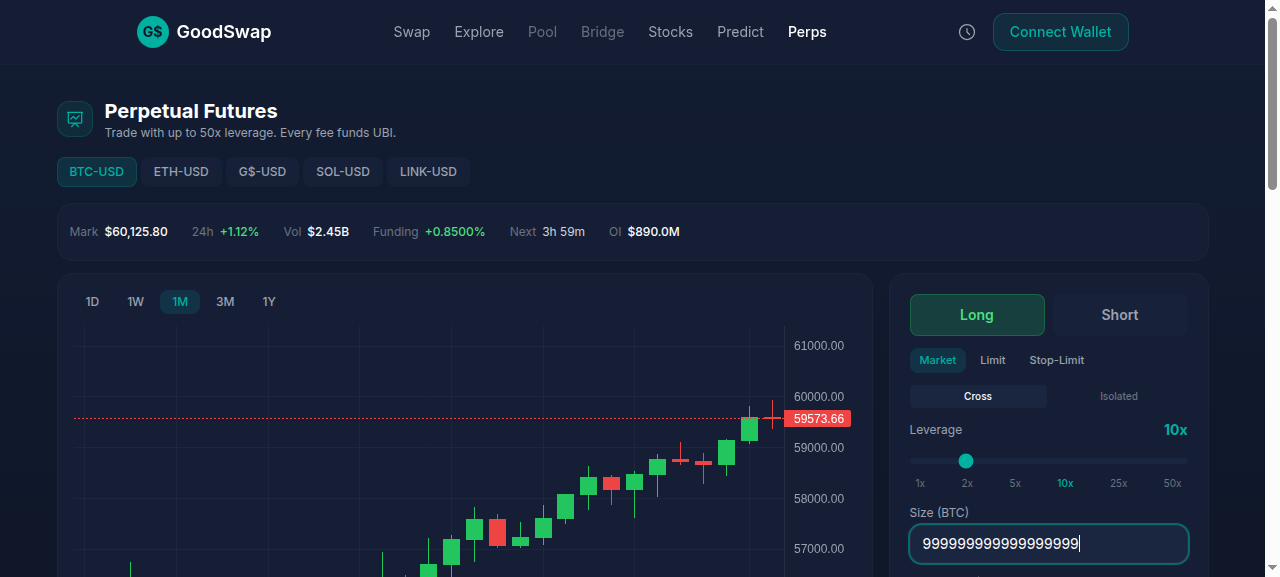
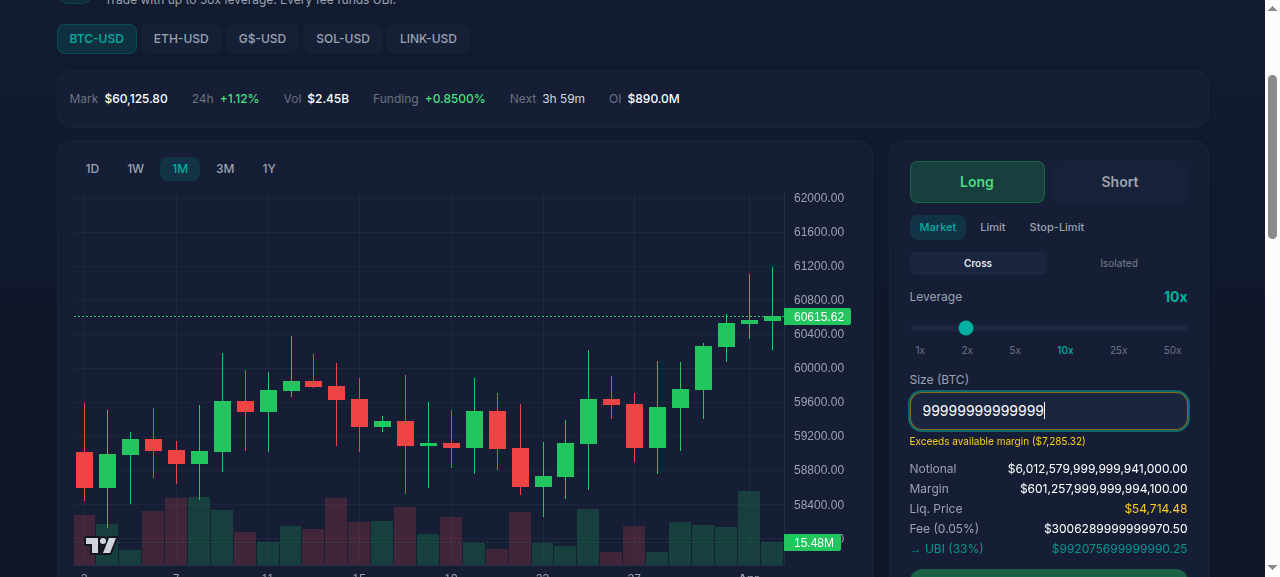
0081: Abbreviate large computed values in trade panels to prevent overflow
Trade panels (Perps, Stock Detail) now use compact formatting (K/M/B/T/Q)
for computed values like Notional, Margin, Fee, UBI, and Est. Shares.
Previously, entering very large position sizes caused unabbreviated numbers
to overflow their containers. Added adaptive decimal precision based on
magnitude and truncate CSS safety nets on value spans.

Made-with: Cursor

diff --git a/frontend/src/lib/__tests__/largeValueFormatting.test.ts b/frontend/src/lib/__tests__/largeValueFormatting.test.ts
@@ -1,0 +1,95 @@
+import { describe, it, expect } from 'vitest'
+import { formatPerpsPrice, formatLargeValue } from '../perpsData'
+import { formatLargeNumber } from '../stockData'
+
+describe('formatPerpsPrice — large value abbreviation', () => {
+  it('abbreviates quadrillions', () => {
+    expect(formatPerpsPrice(6e15)).toBe('$6.00Q')
+    expect(formatPerpsPrice(1.5e16)).toBe('$15.0Q')
+  })
+
+  it('abbreviates trillions', () => {
+    expect(formatPerpsPrice(6.01e12)).toBe('$6.01T')
+    expect(formatPerpsPrice(1.5e12)).toBe('$1.50T')
+  })
+
+  it('abbreviates billions', () => {
+    expect(formatPerpsPrice(601e9)).toBe('$601B')
+    expect(formatPerpsPrice(2.45e9)).toBe('$2.45B')
+  })
+
+  it('abbreviates millions', () => {
+    expect(formatPerpsPrice(890e6)).toBe('$890M')
+    expect(formatPerpsPrice(1.5e6)).toBe('$1.50M')
+  })
+
+  it('uses commas for thousands', () => {
+    expect(formatPerpsPrice(60125.80)).toBe('$60,125.80')
+    expect(formatPerpsPrice(1234.56)).toBe('$1,234.56')
+  })
+
+  it('handles small values', () => {
+    expect(formatPerpsPrice(0.5)).toBe('$0.5000')
+    expect(formatPerpsPrice(0.005)).toBe('$0.005000')
+  })
+
+  it('handles negative large values', () => {
+    expect(formatPerpsPrice(-1.5e12)).toBe('-$1.50T')
+    expect(formatPerpsPrice(-2e9)).toBe('-$2.00B')
+  })
+
+  it('uses adaptive decimals based on magnitude', () => {
+    expect(formatPerpsPrice(150e12)).toBe('$150T')
+    expect(formatPerpsPrice(15e12)).toBe('$15.0T')
+    expect(formatPerpsPrice(1.5e12)).toBe('$1.50T')
+  })
+})
+
+describe('formatLargeValue — order form values', () => {
+  it('abbreviates quadrillions', () => {
+    expect(formatLargeValue(3e15)).toBe('$3.00Q')
+  })
+
+  it('abbreviates trillions', () => {
+    expect(formatLargeValue(3e12)).toBe('$3.00T')
+  })
+
+  it('abbreviates billions', () => {
+    expect(formatLargeValue(6.01e9)).toBe('$6.01B')
+  })
+
+  it('abbreviates millions', () => {
+    expect(formatLargeValue(300e6)).toBe('$300M')
+  })
+
+  it('abbreviates thousands', () => {
+    expect(formatLargeValue(7285)).toBe('$7K')
+  })
+
+  it('formats small values with 2 decimals', () => {
+    expect(formatLargeValue(42.5)).toBe('$42.50')
+    expect(formatLargeValue(0.99)).toBe('$0.99')
+  })
+
+  it('handles negative values', () => {
+    expect(formatLargeValue(-5e9)).toBe('-$5.00B')
+  })
+})
+
+describe('formatLargeNumber — stock values', () => {
+  it('abbreviates trillions', () => {
+    expect(formatLargeNumber(3.09e12)).toBe('$3.09T')
+  })
+
+  it('abbreviates billions', () => {
+    expect(formatLargeNumber(790e9)).toBe('$790.0B')
+  })
+
+  it('abbreviates millions', () => {
+    expect(formatLargeNumber(22.1e6)).toBe('$22.1M')
+  })
+
+  it('abbreviates thousands', () => {
+    expect(formatLargeNumber(500)).toBe('$500')
+  })
+})

diff --git a/frontend/src/app/perps/page.tsx b/frontend/src/app/perps/page.tsx
@@ -202,11 +202,11 @@ function OrderForm({ pair, account }: { pair: PerpPair; account: AccountSummaryD
 
       {sizeNum > 0 && (
         <div className="space-y-1 text-xs">
-          <div className="flex justify-between text-gray-400"><span>Notional</span><span className="text-white">{formatPerpsPrice(notional)}</span></div>
-          <div className="flex justify-between text-gray-400"><span>Margin</span><span className="text-white">{formatPerpsPrice(marginRequired)}</span></div>
-          <div className="flex justify-between text-gray-400"><span>Liq. Price</span><span className="text-yellow-400">{formatPerpsPrice(liqPrice)}</span></div>
-          <div className="flex justify-between text-gray-400"><span>Fee ({orderType === 'market' ? '0.05%' : '0.02%'})</span><span className="text-white">${fee.toFixed(2)}</span></div>
-          <div className="flex justify-between text-goodgreen/80"><span>→ UBI (33%)</span><span>${ubiFee.toFixed(2)}</span></div>
+          <div className="flex justify-between text-gray-400"><span>Notional</span><span className="text-white truncate ml-2">{formatPerpsPrice(notional)}</span></div>
+          <div className="flex justify-between text-gray-400"><span>Margin</span><span className="text-white truncate ml-2">{formatPerpsPrice(marginRequired)}</span></div>
+          <div className="flex justify-between text-gray-400"><span>Liq. Price</span><span className="text-yellow-400 truncate ml-2">{formatPerpsPrice(liqPrice)}</span></div>
+          <div className="flex justify-between text-gray-400"><span>Fee ({orderType === 'market' ? '0.05%' : '0.02%'})</span><span className="text-white truncate ml-2">{formatLargeValue(fee)}</span></div>
+          <div className="flex justify-between text-goodgreen/80"><span>→ UBI (33%)</span><span className="truncate ml-2">{formatLargeValue(ubiFee)}</span></div>
         </div>
       )}
 

diff --git a/frontend/src/lib/perpsData.ts b/frontend/src/lib/perpsData.ts
@@ -161,8 +161,23 @@ export function getLeaderboard(): LeaderboardEntry[] {
   return MOCK_LEADERBOARD
 }
 
+const PRICE_TIERS: [number, string][] = [
+  [1e15, 'Q'],
+  [1e12, 'T'],
+  [1e9, 'B'],
+  [1e6, 'M'],
+]
+
 export function formatPerpsPrice(price: number): string {
   const abs = Math.abs(price)
+  const sign = price < 0 ? '-' : ''
+  for (const [threshold, suffix] of PRICE_TIERS) {
+    if (abs >= threshold) {
+      const abbr = abs / threshold
+      const decimals = abbr >= 100 ? 0 : abbr >= 10 ? 1 : 2
+      return `${sign}$${abbr.toFixed(decimals)}${suffix}`
+    }
+  }
   if (abs >= 1000) return `$${price.toLocaleString('en-US', { minimumFractionDigits: 2, maximumFractionDigits: 2 })}`
   if (abs >= 1) return `$${price.toFixed(2)}`
   if (abs >= 0.01) return `$${price.toFixed(4)}`
@@ -170,10 +185,17 @@ export function formatPerpsPrice(price: number): string {
 }
 
 export function formatLargeValue(n: number): string {
-  if (n >= 1e9) return `$${(n / 1e9).toFixed(2)}B`
-  if (n >= 1e6) return `$${(n / 1e6).toFixed(1)}M`
-  if (n >= 1e3) return `$${(n / 1e3).toFixed(0)}K`
-  return `$${n.toFixed(0)}`
+  const abs = Math.abs(n)
+  const sign = n < 0 ? '-' : ''
+  for (const [threshold, suffix] of PRICE_TIERS) {
+    if (abs >= threshold) {
+      const abbr = abs / threshold
+      const decimals = abbr >= 100 ? 0 : abbr >= 10 ? 1 : 2
+      return `${sign}$${abbr.toFixed(decimals)}${suffix}`
+    }
+  }
+  if (abs >= 1e3) return `${sign}$${(abs / 1e3).toFixed(0)}K`
+  return `$${n.toFixed(2)}`
 }
 
 export function formatFundingRate(rate: number): string {

diff --git a/frontend/src/app/stocks/[ticker]/page.tsx b/frontend/src/app/stocks/[ticker]/page.tsx
@@ -80,19 +80,19 @@ function OrderForm({ stock }: { stock: { ticker: string; price: number } }) {
         <div className="mb-4 space-y-1.5 text-xs">
           <div className="flex justify-between text-gray-400">
             <span>Est. Shares</span>
-            <span className="text-white">{shares.toFixed(4)} {stock.ticker}</span>
+            <span className="text-white truncate ml-2">{shares >= 1e6 ? `${(shares / 1e6).toFixed(2)}M` : shares >= 1e3 ? `${(shares / 1e3).toFixed(1)}K` : shares.toFixed(4)} {stock.ticker}</span>
           </div>
           <div className="flex justify-between text-gray-400">
             <span>Price</span>
-            <span className="text-white">{formatStockPrice(effectivePrice)}</span>
+            <span className="text-white truncate ml-2">{formatStockPrice(effectivePrice)}</span>
           </div>
           <div className="flex justify-between text-gray-400">
             <span>Fee (0.1%)</span>
-            <span className="text-white">${fee.toFixed(2)}</span>
+            <span className="text-white truncate ml-2">{formatLargeNumber(fee)}</span>
           </div>
           <div className="flex justify-between text-goodgreen/80">
             <span>→ UBI Pool (33%)</span>
-            <span>${ubiFee.toFixed(2)}</span>
+            <span className="truncate ml-2">{formatLargeNumber(ubiFee)}</span>
           </div>
         </div>
       )}

diff --git a/.autobuilder/initiatives/0081-trade-panel-value-overflow.md b/.autobuilder/initiatives/0081-trade-panel-value-overflow.md
@@ -1,0 +1,103 @@
+---
+id: gooddollar-l2-trade-panel-value-overflow
+title: "Trade Panels — Abbreviate Large Computed Values to Prevent Overflow"
+parent: gooddollar-l2
+deps: []
+split: false
+depth: 1
+planned: true
+executed: false
+---
+
+## Problem Statement
+
+When users enter very large position sizes in the Perps trade panel or the Stock Detail trade panel, computed values (Notional, Margin, Fee, UBI Pool, Est. Shares) render as extremely long unabbreviated strings that overflow their containers. For example, entering "99999999999999" in the perps Size field produces:
+- Notional: `$6,012,579,999,999,941,000.00` (overflows the sidebar)
+- Margin: `$601,257,999,999,994,100.00`
+- Fee: `$300628999999970.50` (raw `.toFixed(2)`, no commas or abbreviation)
+- UBI (33%): `$99207569999990.25`
+
+Similarly on Stock Detail (`/stocks/MSFT`), entering a huge dollar amount shows:
+- Est. Shares: `24061597690.0842 MSFT` (overflows)
+- Fee: `$10000000000.00`
+- UBI Pool: `$3300000000.00`
+
+The app already has a `formatLargeValue` function in `perpsData.ts` and `compactAmount` in `format.ts` that handle abbreviation (K/M/B/T), but neither is used for these computed fields.
+
+## User Story
+
+As a trader entering a position size, I want computed values (Notional, Margin, Fee, Shares) to display in a compact, readable format so the trade panel doesn't break visually.
+
+## How It Was Found
+
+During edge-case testing: entered "99999999999999" in the Perps Size field and "9999999999999" in the Stock Detail Amount field. Both caused computed values to overflow their containers. Screenshots captured showing the overflow.
+
+## Proposed UX
+
+- All computed monetary values in trade panels should use abbreviated formatting: `$1.23B`, `$45.6M`, `$789K`.
+- Use the existing `formatLargeValue` from `perpsData.ts` for the perps Fee and UBI fee lines (currently using `fee.toFixed(2)`).
+- Use `formatLargeValue` (or a similar utility) for the stock detail Est. Shares, Fee, and UBI Pool values.
+- Add `overflow-hidden text-ellipsis` or `truncate` as a safety net on value containers.
+- The swap card already uses `compactAmount` on mobile; ensure desktop also truncates for very long outputs.
+
+## Acceptance Criteria
+
+- [ ] Perps trade panel: Fee and UBI fee lines use `formatLargeValue` instead of raw `.toFixed(2)`.
+- [ ] Perps trade panel: Notional and Margin use abbreviated formatting for values >= 1B.
+- [ ] Stock detail trade panel: Est. Shares uses compact formatting for values >= 1M.
+- [ ] Stock detail trade panel: Fee and UBI Pool use `formatLargeValue` for large values.
+- [ ] No value in any trade panel exceeds its container width visually.
+- [ ] Existing tests still pass.
+- [ ] New tests verify large-value formatting in trade panels.
+
+## Verification
+
+- Run `npx vitest run` — all tests must pass.
+- Enter `99999999999999` in perps Size field — values should show abbreviated (e.g., `$6.01T`, `$601.3B`).
+- Enter `9999999999999` in stock detail Amount field — values should show abbreviated.
+
+## Overview
+
+Fix computed monetary values in Perps and Stock Detail trade panels to use abbreviated formatting (K/M/B/T) when values are very large, preventing visual overflow.
+
+## Research Notes
+
+- `formatPerpsPrice` in `lib/perpsData.ts` (line 164) formats with `toLocaleString` for values >= 1000 — adds commas but doesn't abbreviate, so `$6,012,579,999,999,941,000.00` is output.
+- `formatLargeValue` in `lib/perpsData.ts` (line 172) handles B/M/K abbreviation but not T (trillion). It's not used for Fee/UBI in the order form.
+- Perps Fee (line 208) uses raw `$${fee.toFixed(2)}` — no formatting.
+- Perps UBI (line 209) uses raw `$${ubiFee.toFixed(2)}` — no formatting.
+- Stock Detail Est. Shares (line 83) uses `shares.toFixed(4)`.
+- Stock Detail Fee (line 91) uses `$${fee.toFixed(2)}`.
+- Stock Detail UBI Pool (line 95) uses `$${ubiFee.toFixed(2)}`.
+- `compactAmount` in `lib/format.ts` is a general-purpose abbreviation function that could be reused.
+
+## Architecture
+
+```mermaid
+graph TD
+  A[formatLargeValue in perpsData.ts] -->|Add T threshold| B[Supports T/B/M/K]
+  C[Perps OrderForm] -->|Use formatLargeValue| D[Fee + UBI lines]
+  C -->|formatPerpsPrice already used| E[Notional + Margin]
+  F[Stock Detail OrderForm] -->|Use formatLargeValue| G[Fee + UBI + Shares lines]
+  H[formatPerpsPrice] -->|Add abbreviation for >= 1B| I[Abbreviated output]
+```
+
+## One-Week Decision
+
+**YES** — This is a focused formatting change across two files. The formatting functions already exist and just need to be applied. Estimated effort: 2-3 hours.
+
+## Implementation Plan
+
+1. Extend `formatLargeValue` in `perpsData.ts` to handle trillions (`>= 1e12`).
+2. Upgrade `formatPerpsPrice` to use abbreviated formatting for values >= 1B (to keep the Notional/Margin fields compact).
+3. In `perps/page.tsx` OrderForm, replace `$${fee.toFixed(2)}` and `$${ubiFee.toFixed(2)}` with `formatLargeValue(fee)` and `formatLargeValue(ubiFee)`.
+4. Create/export a `formatCompactShares` utility for large share counts.
+5. In `stocks/[ticker]/page.tsx` OrderForm, replace `shares.toFixed(4)`, `$${fee.toFixed(2)}`, and `$${ubiFee.toFixed(2)}` with the appropriate formatting functions.
+6. Add `truncate` CSS class as safety net on value containers.
+7. Write tests for the formatting edge cases.
+
+## Out of Scope
+
+- Adding maximum input length to perps/stock inputs (separate initiative 0082).
+- Changing the swap card behavior.
+- Refactoring the mock data layer.

diff --git a/.autobuilder/initiatives/0082-perps-stocks-input-sanitization.md b/.autobuilder/initiatives/0082-perps-stocks-input-sanitization.md
@@ -1,0 +1,89 @@
+---
+id: gooddollar-l2-perps-stocks-input-sanitization
+title: "Perps & Stocks — Add Input Length Limits and Sanitization to Trade Forms"
+parent: gooddollar-l2
+deps: []
+split: false
+depth: 1
+planned: true
+executed: false
+---
+
+## Problem Statement
+
+The Swap card uses `sanitizeNumericInput` from `lib/format.ts` which limits input to 20 characters and strips non-numeric characters. However, the Perps size input and the Stock Detail amount input use raw `<input type="number">` with no character limit or input sanitization. Users can enter arbitrarily long numbers (e.g., 30+ digits), which causes computed values to overflow and can potentially cause floating-point precision issues.
+
+The Perps page uses a custom `sanitizePositiveInput` for limit/trigger price fields but the Size field only applies the same function — it strips negatives but doesn't cap length. The Stock Detail page has no input sanitization at all.
+
+## User Story
+
+As a trader, I want input fields to prevent me from entering unreasonably large numbers so the trade panel stays readable and I'm not confused by overflow or precision artifacts.
+
+## How It Was Found
+
+During edge-case testing of boundary conditions. Entered "99999999999999" (14 digits) and "9999999999999" (13 digits) into the Perps size and Stock detail amount fields respectively. Both accepted the full number. The Swap card limits to 20 chars — the perps and stock forms should have similar constraints.
+
+## Proposed UX
+
+- Apply `sanitizeNumericInput` (or equivalent) to the Perps Size input to limit length to 15 characters (covering reasonable position sizes).
+- Apply `sanitizeNumericInput` (or equivalent) to the Stock Detail Amount input.
+- Apply the same sanitization to Perps Limit Price and Trigger Price inputs.
+- Change `<input type="number">` to `<input type="text" inputMode="decimal">` to enable consistent cross-browser sanitization (matching the swap card pattern).
+
+## Acceptance Criteria
+
+- [ ] Perps Size input limited to 15 characters max, strips non-numeric except decimal point.
+- [ ] Perps Limit Price and Trigger Price inputs limited to 15 characters max.
+- [ ] Stock Detail Amount input limited to 15 characters max, strips non-numeric except decimal point.
+- [ ] Input type changed from `number` to `text` with `inputMode="decimal"` for consistent behavior.
+- [ ] Existing tests still pass.
+- [ ] New tests verify input sanitization.
+
+## Verification
+
+- Run `npx vitest run` — all tests must pass.
+- On `/perps`, try pasting a 30-character number into the Size field — it should be truncated to 15 characters.
+- On `/stocks/MSFT`, try pasting a 30-character number into the Amount field — it should be truncated.
+
+## Overview
+
+Apply the same input sanitization pattern used in the SwapCard to the Perps and Stock Detail trade forms, preventing arbitrarily long numeric inputs.
+
+## Research Notes
+
+- SwapCard uses `sanitizeNumericInput` from `lib/format.ts` — strips non-numeric except `.`, caps at 20 chars, removes leading zeros.
+- Perps Size input: `<input type="number">` at `perps/page.tsx` line 196, uses `sanitizePositiveInput` (local function at line 96) — only strips negatives, no length cap.
+- Perps Limit/Trigger Price: `<input type="number">` at lines 178, 187, also use `sanitizePositiveInput`.
+- Stock Amount: `<input type="number">` at `stocks/[ticker]/page.tsx` line 75, no sanitization.
+- Stock Limit Price: `<input type="number">` at line 68, no sanitization.
+- Changing `type="number"` to `type="text" inputMode="decimal"` enables consistent sanitization.
+
+## Architecture
+
+```mermaid
+graph TD
+  A[sanitizeNumericInput in lib/format.ts] -->|Import and use| B[Perps OrderForm inputs]
+  A -->|Import and use| C[Stock OrderForm inputs]
+  B --> D["type=text inputMode=decimal"]
+  C --> D
+  D --> E[Consistent 15-char limit]
+```
+
+## One-Week Decision
+
+**YES** — Changing 5 input elements from `type="number"` to `type="text" inputMode="decimal"` and adding `sanitizeNumericInput` calls. Estimated effort: 1-2 hours.
+
+## Implementation Plan
+
+1. In `perps/page.tsx`, change Size input from `type="number"` to `type="text" inputMode="decimal"`, replace `sanitizePositiveInput` with `sanitizeNumericInput` from `lib/format.ts`.
+2. Do the same for Limit Price and Trigger Price inputs in perps.
+3. In `stocks/[ticker]/page.tsx`, change Amount and Limit Price inputs similarly.
+4. Remove the local `sanitizePositiveInput` function if no longer used.
+5. Write tests verifying input sanitization.
+6. Verify existing tests still pass.
+
+## Out of Scope
+
+- Changing the output formatting (covered in initiative 0081).
+- Modifying the swap card (already has sanitization).
+- Adding balance-based validation.
